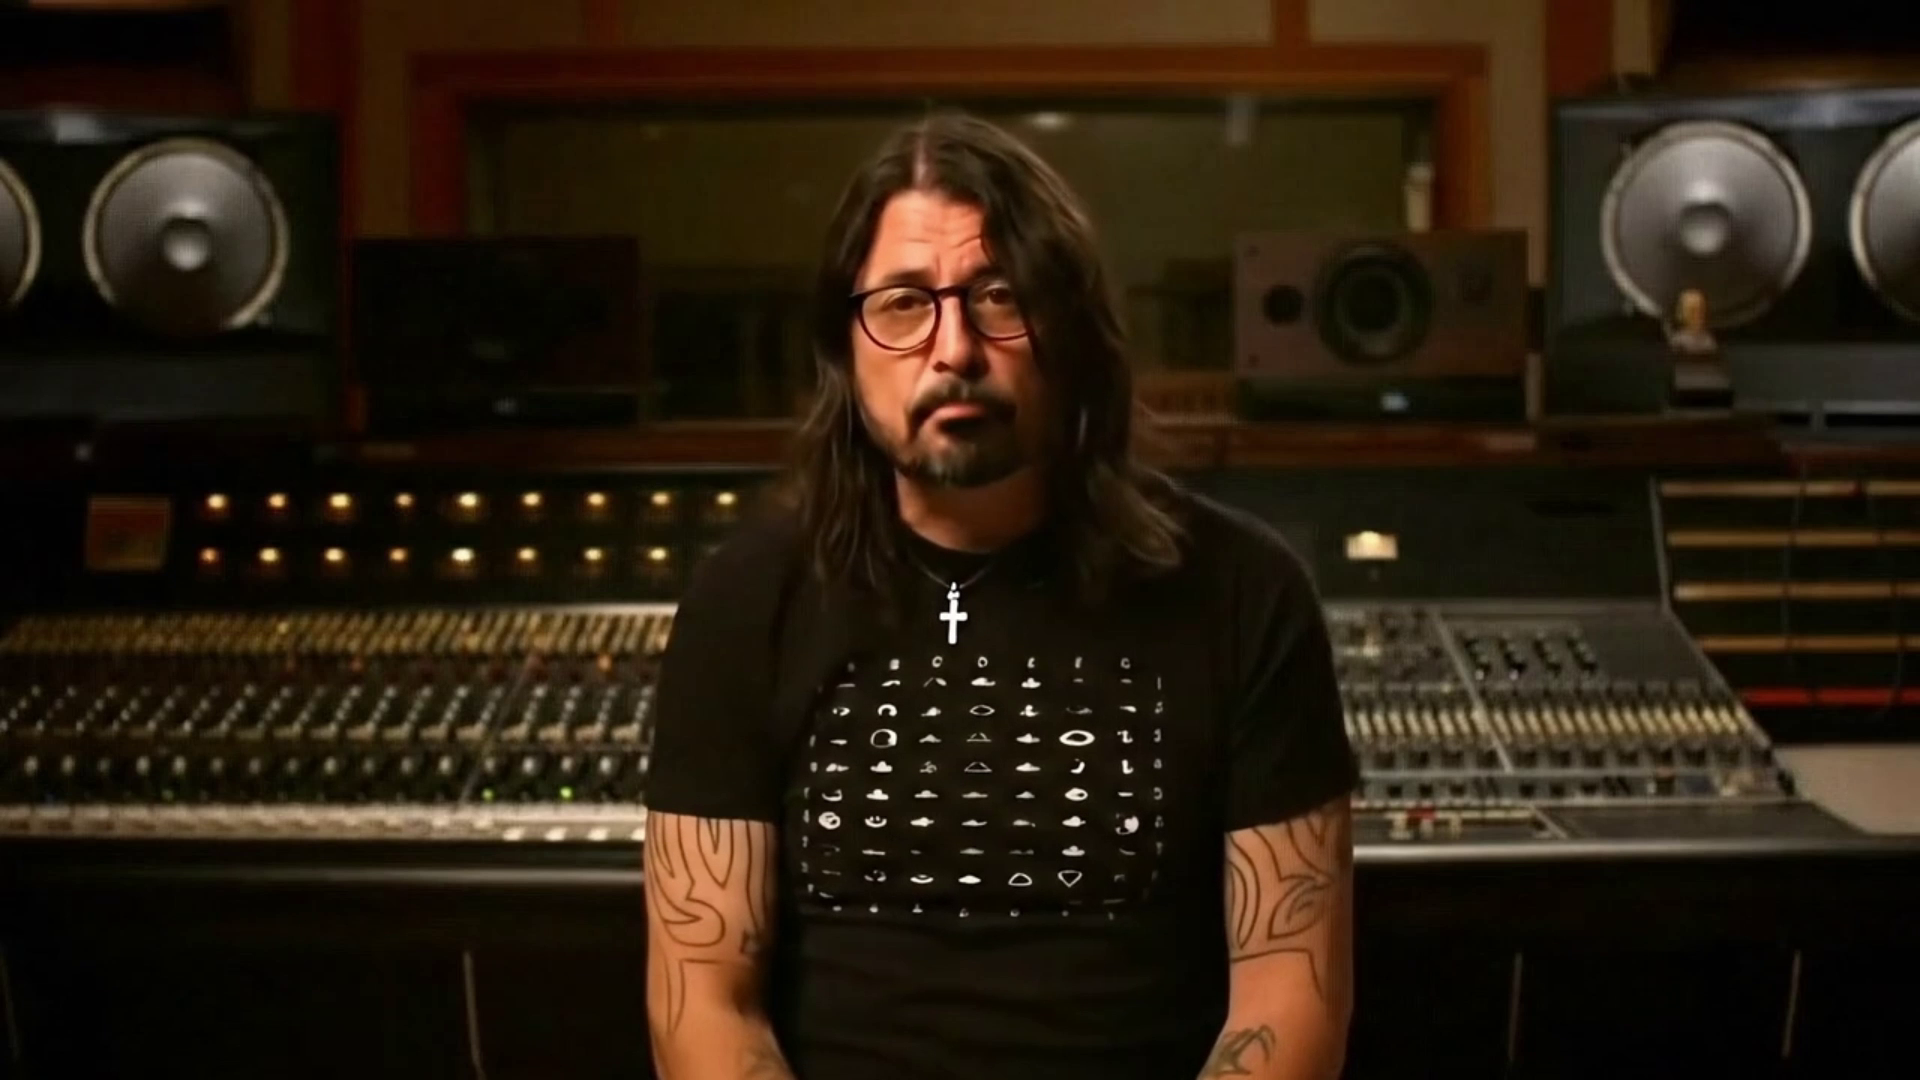
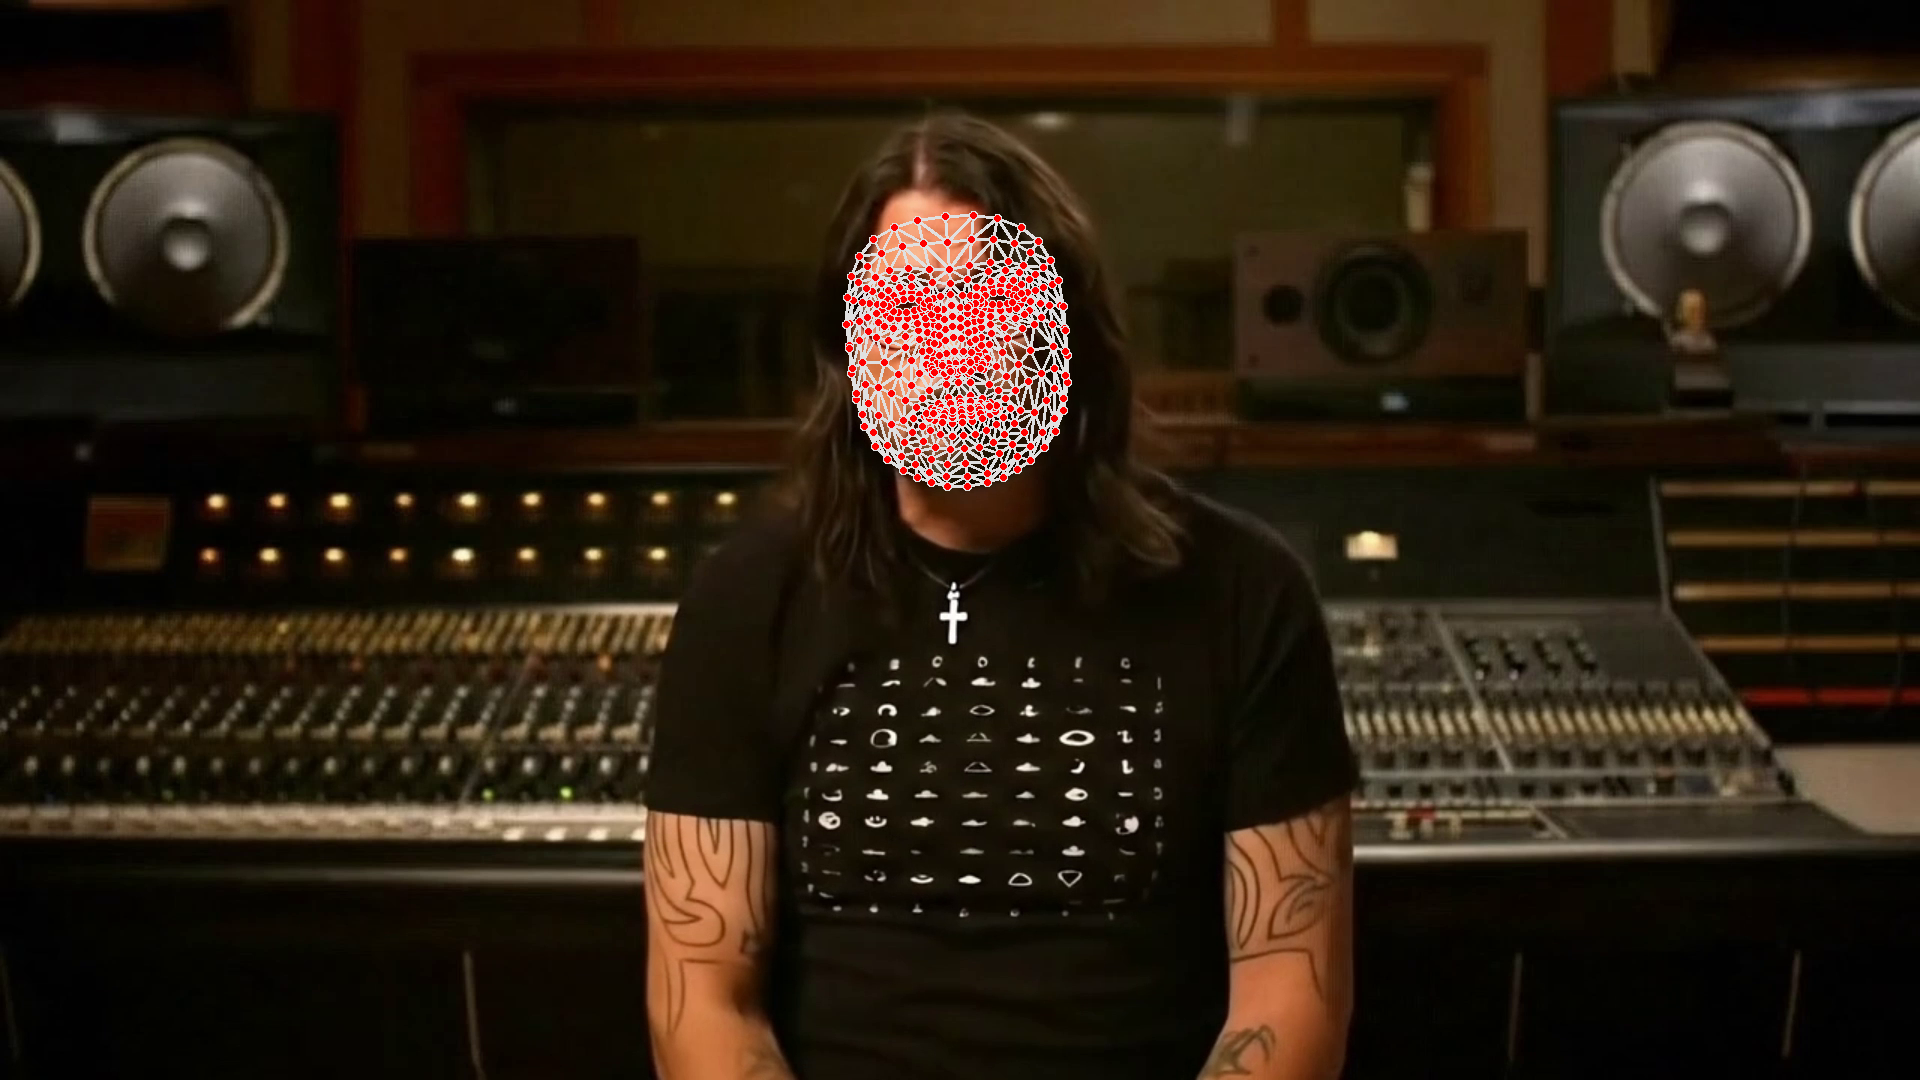
anomaly frames get downloaded

Changed region(s): [[0.4375, 0.1833, 0.5625, 0.4583]]

diff --git a/GeometryMapping/GeometryMapping.py b/GeometryMapping/GeometryMapping.py
@@ -236,7 +236,7 @@ class GeometryMapper:
                     face_distance_anomaly_frames += 1
                     print(f"Face anomaly detected at frame: {total_frames}!")
                     if face_distance_anomaly_frames == 1:
-                        GeometryMapper.mp_drawing.draw_landmarks(frame, results.multi_face_landmarks, GeometryMapper.mp_face_mesh.FACEMESH_TESSELATION)
+                        GeometryMapper.mp_drawing.draw_landmarks(frame, results.multi_face_landmarks[0], GeometryMapper.mp_face_mesh.FACEMESH_TESSELATION)
                         save_path = os.path.join(os.getcwd(), f"face_anomaly_frame_.png")
                         cv2.imwrite(save_path, frame)        
                         print("frame saved at: ", save_path)
@@ -276,7 +276,8 @@ class GeometryMapper:
                     if arm_length_ratio_anomaly_frames or shoulder_to_shoulder_width_anomaly_frames == 1:
                             GeometryMapper.mp_drawing.draw_landmarks(frame, results.pose_landmarks, mp.solutions.pose.POSE_CONNECTIONS)
                             save_path = os.path.join(os.getcwd(), f"limb_anomaly_frame_.png")
-                            cv2.imwrite(save_path, frame)        
+                            cv2.imwrite(save_path, frame)   
+                            print("frame saved at: ", save_path)     
                 else:
                     #Frame was not anomalous so we reset multiplier 
                     anomaly_multiplier = 0.1
@@ -346,10 +347,10 @@ class GeometryMapper:
                         print(f"Finger curl anomaly detected at frame {total_frames}!")
                         finger_angle_anomaly_frames += 1
                         if finger_angle_anomaly_frames == 1:
-                            GeometryMapper.mp_drawing.draw_landmarks(frame, results.multi_hand_landmarks, GeometryMapper.mp_hands.HAND_CONNECTIONS)
+                            GeometryMapper.mp_drawing.draw_landmarks(frame, hand_landmarks, GeometryMapper.mp_hands.HAND_CONNECTIONS)
                             save_path = os.path.join(os.getcwd(), f"finger_anomaly_frame_.png")
                             cv2.imwrite(save_path, frame)
-                        print("frame saved at: ", save_path) 
+                            print("frame saved at: ", save_path) 
                     else :
                         #Frame was not anomalous so multiplier zeroed
                         anomaly_multiplier = 0
